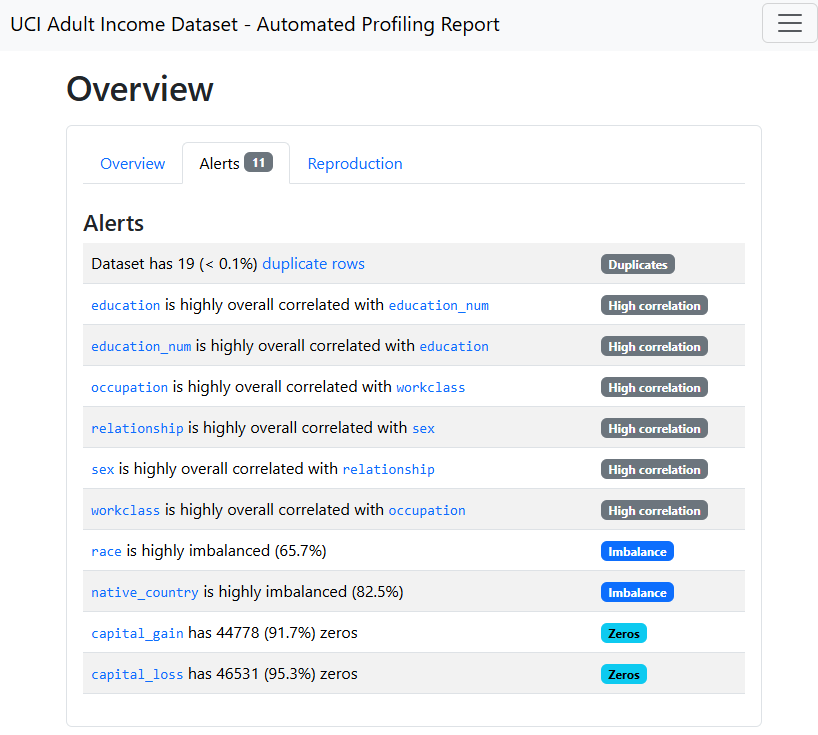
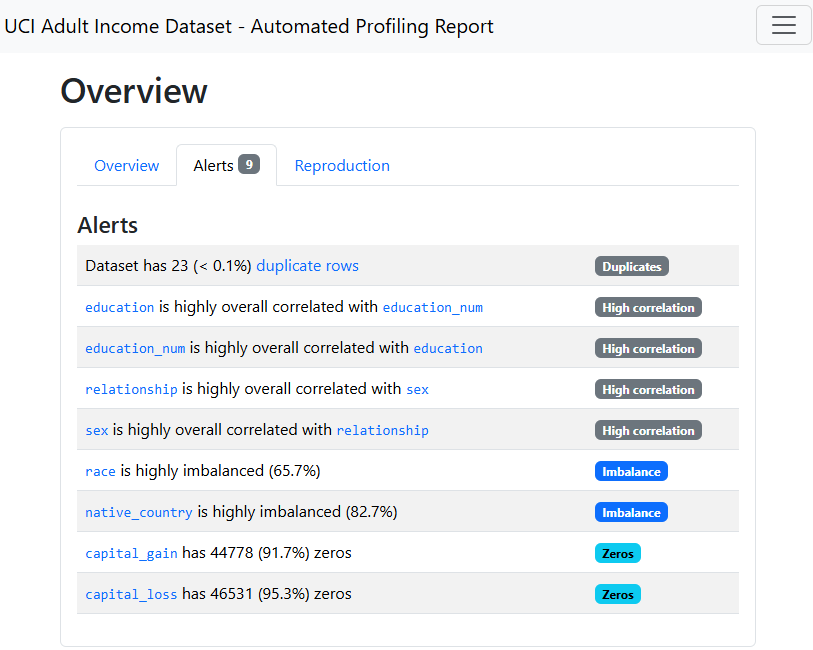
eda update

diff --git a/exploratory-data-analysis/index.md b/exploratory-data-analysis/index.md
@@ -108,4 +108,4 @@ This EDA establishes a validated, well-understood foundation for two natural fol
 
 ## Python code:
 You can view the full Python script used for the analysis here: 
-[View the Python Script](/EDA_v0.1.py)
+[View the Python Script](/EDA_v0.2.py)